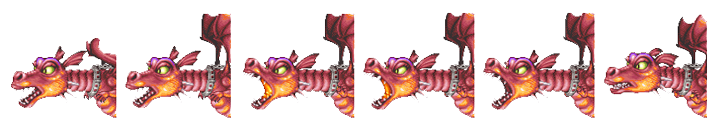
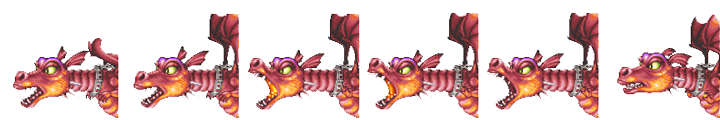
inserito drago e aggiustate robe

diff --git a/Livello2.h b/Livello2.h
@@ -4,6 +4,7 @@
 #include "Livello1.h"
 #include "Scala.h"
 #include "Piattaforma.h"
+#include "Drago.h"
 
 class Livello2: public Livello1  {
 public:
@@ -15,10 +16,11 @@ public:
 	virtual int Esegui(int, float[]);
 
 protected:
+
 	Scala *scala1, *scala2;
 	Piattaforma *piat1, *piat2;
 	Blocco *blocco1, *blocco2, *blocco3;
-
+	Drago *drago;
 };
 
 
@@ -57,6 +59,7 @@ Livello2::Livello2(Livello1* L1, const int FPS)  {
 	blocco1 = new Blocco(150, 100, bloccoPietra);
 	blocco2 = new Blocco(292, 150, bloccoPietra);
 	blocco3 = new Blocco(434, 100, bloccoPietra);
+	drago= new Drago(120,120,640,220); // posDrago 530,220
 }
 
 Livello2::~Livello2()  {
@@ -88,6 +91,10 @@ Livello2::~Livello2()  {
 		cerr << "\ndeleto blocco3";
 		delete blocco3;
 	}
+	if(drago)  	{
+		cerr << "\ndeleto drago";
+		delete drago;
+	}
 }
 
 void Livello2::regolaPalle()  {
@@ -103,9 +110,10 @@ int Livello2::Esegui(int vite, float res_info[])  {
 	bool 	drawShoot=false, caduto=false, shoot=false, colpito=false, sfondo2=false, 
 			presa=false, redraw = true, keyRight=false, keyLeft=false, keySpace=false, 
 			toLeft=false, MatchOver=false, bitmap_ = true, fullscreen=false, climbing=false,
-			drawExplosion=false, trans=true, keyUp = false, keyDown = false, onlyLeftRight=false;
+			drawExplosion=false, trans=true, keyUp = false, keyDown = false, onlyLeftRight=false,
+			dragonArrive=true, spitting=false;
 
-	int 	punteggio=0, tempo=9000, H_arma=0, return_value;
+	int 	punteggio=0, tempo=9000, H_arma=0, return_value, fireCount=300; //fireCount timer per spitFire 300=5 sec
 
 	regolaPalle();
 	al_flush_event_queue(event_queue);
@@ -304,7 +312,6 @@ int Livello2::Esegui(int vite, float res_info[])  {
 			if(vite<=0 || tempo<=0)
 				caduto=true;
 
-			al_draw_text(font1,al_map_rgb(0,255,0),320,0,ALLEGRO_ALIGN_CENTRE,"Shrek Pang");
 			al_draw_textf(font1,al_map_rgb(255,255,0),SCREEN_W/4.7,SCREEN_H/1.16,ALLEGRO_ALIGN_RIGHT,"%d",tempo/60);
 			al_draw_textf(font2,al_map_rgb(0,0,255),SCREEN_W/1.06,SCREEN_H/1.14,ALLEGRO_ALIGN_RIGHT,"%d",punteggio);
 
@@ -315,6 +322,24 @@ int Livello2::Esegui(int vite, float res_info[])  {
 			piat2->Draw();
 			scala1->Draw();
 			scala2->Draw();
+
+			if(tempo/60<=145) 
+			{
+				if(drago->getX()<=530)
+				{
+					dragonArrive=false;
+				}
+				if(fireCount==0 || player->getX()>=470)
+				{
+					spitting=true;
+					fireCount=300;
+				}	
+				if(!drago->Draw(dragonArrive,spitting))
+					spitting=false;
+				
+				fireCount--;
+			}	
+
 			if(shoot)
 				player->Draw_arma(H_arma);
 			player->setDraw(keyLeft,keyRight,drawShoot,toLeft, caduto, climbing);

diff --git a/Drago.h b/Drago.h
@@ -71,27 +71,28 @@ class Drago  {
 };
 bool Drago::Draw(bool arrive,bool spitFire)
 {
-    if(arrive && !spitFire)
+    if(arrive)
     {
         setFrames(6);
-        drago=al_load_bitmap("dragonArriving.png");
-        animazione.setFrameDelay(5);
+        drago=al_load_bitmap("images/dragonArriving.png");
+        animazione.setFrameDelay(6);
+        posX--;
         if(!animazione.eseguiFrame(drago,getDim_x(),getDim_y(),getX(),getY(), true,getFrames()))
         return false;
     }
     else if(spitFire)
     {
         setFrames(6);
-        animazione.setFrameDelay(7);
-        drago=al_load_bitmap("dragonSpitting.png");
+        animazione.setFrameDelay(10);
+        drago=al_load_bitmap("images/dragonSpitting.png");
         if(!animazione.eseguiFrame(drago,getDim_x(),getDim_y(),getX(),getY(), false,getFrames()))
         return false;
     }
-    else
+    else if(!spitFire && !arrive)
     {
         setFrames(12);
-        drago=al_load_bitmap("dragonAnimation.png");
-        animazione.setFrameDelay(5);
+        drago=al_load_bitmap("images/dragonAnimation.png");
+        animazione.setFrameDelay(8);
         if(!animazione.eseguiFrame(drago,getDim_x(),getDim_y(),getX(),getY(), true,getFrames()))
         return false;
     }

diff --git a/Giocatore.h b/Giocatore.h
@@ -80,9 +80,10 @@ void Giocatore::setDraw(bool keyLeft, bool keyRight, bool drawShoot, bool toLeft
 }
 bool Giocatore:: Draw(){
     if(climbing)  {
-        setFrames(6);
+        setFrames(5);
         animazione.setFrameDelay(7);
         setBitmap(al_load_bitmap("images/shrekClimbing.png"));
+        return animazione.eseguiFrame(bitmap, dim_x, dim_y,posX,posY, false,frames);
     }
     if(left && !drawShoot && !caduto)  {
         setFrames(6);

diff --git a/Livello1.h b/Livello1.h
@@ -377,7 +377,7 @@ void Livello1::Transition(int x)
 	al_flush_event_queue(event_queue);
 	transizione.setTipo(x);
 	player->setDraw(false,false,false,false, false,false);
-	al_set_timer_speed(timer, 1.0 / 3.5);
+	al_set_timer_speed(timer, 1.0 / 10);
 	al_register_event_source(event_queue, al_get_timer_event_source(timer));
 	while(trans)  {
 		ALLEGRO_EVENT ev;
